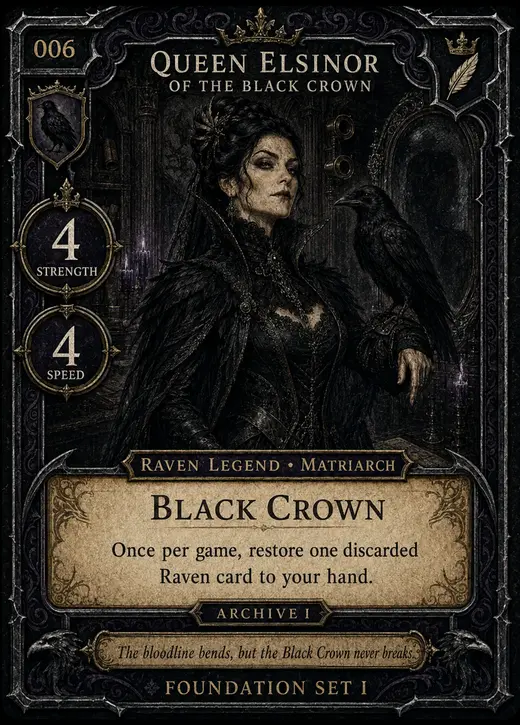
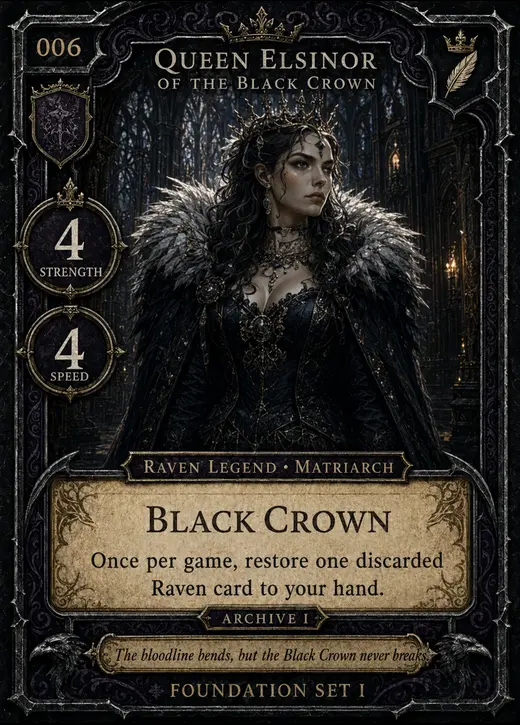
Correct Queen Elsinor and add endgame results

diff --git a/blackfeather/blackfeather.js b/blackfeather/blackfeather.js
@@ -9,15 +9,17 @@ const cards=raw.map(([id,name,role,faction,strength,speed,ability,rules])=>({id,
 const names=["The Iron Gate","The Moon Archive","The Shattered Crown"],S={round:0,max:6,active:false,resolving:false,turn:0,blackwingLane:null,selected:null,hand:[],enemy:[],lanes:names.map(name=>({name,player:[],enemy:[]}))},$=id=>document.getElementById(id);
 function shuffle(a){a=[...a];for(let i=a.length-1;i;i--){let j=Math.floor(Math.random()*(i+1));[a[i],a[j]]=[a[j],a[i]]}return a}
 function hideBlackwing(){document.getElementById("blackwing-reveal")?.remove()}
+function hideOutcome(){document.getElementById("game-outcome")?.remove()}
+function showOutcome(title,detail){hideOutcome();const o=document.createElement("div");o.id="game-outcome";o.className=`game-outcome ${title==="YOU WIN"?"win":title==="YOU LOSE"?"lose":"draw"}`;o.innerHTML=`<span>Match complete</span><strong>${title}</strong><p>${detail}</p><button class="button" type="button">Play again</button>`;o.querySelector("button").onclick=start;document.body.append(o)}
 function showBlackwing(c,lane){hideBlackwing();const r=document.createElement("div");r.id="blackwing-reveal";r.className="blackwing-reveal";r.innerHTML=`<span>Blackwing chooses</span><img src="${c.image}" alt="${c.name}"><strong>${c.name}</strong><small>Committing to ${lane}</small>`;document.body.append(r)}
 const wait=ms=>new Promise(resolve=>setTimeout(resolve,ms));
-function start(){hideBlackwing();const d=shuffle(cards);Object.assign(S,{round:1,active:true,resolving:false,turn:S.turn+1,blackwingLane:null,selected:null,hand:d.slice(0,8),enemy:d.slice(8,16),lanes:names.map(name=>({name,player:[],enemy:[]}))});$("start").textContent="Restart Match";status("Choose a legend, then commit it to a Clash.");render()}
+function start(){hideBlackwing();hideOutcome();const d=shuffle(cards);Object.assign(S,{round:1,active:true,resolving:false,turn:S.turn+1,blackwingLane:null,selected:null,hand:d.slice(0,8),enemy:d.slice(8,16),lanes:names.map(name=>({name,player:[],enemy:[]}))});$("start").textContent="Restart Match";status("Choose a legend, then commit it to a Clash.");render()}
 function power(c,side,i){const l=S.lanes[i],a=l[side],other=l[side==="player"?"enemy":"player"],all=[...a,...other],f=new Set(a.map(x=>x.faction));let p=c.strength,behind=a.reduce((n,x)=>n+x.strength,0)<other.reduce((n,x)=>n+x.strength,0);if(c.id===2&&other.length)p+=2;if([3,6,18,20].includes(c.id))p+=Math.max(0,a.filter(x=>x.faction===c.faction).length-1);if(c.id===4&&other.length&&c.speed>Math.max(...other.map(x=>x.speed)))p++;if(c.id===5&&a[0]===c)p+=2;if(c.id===7&&behind)p+=2;if(c.id===8)p+=S.round-1;if(c.id===10)p+=f.size;if(c.id===11&&c.speed===Math.max(...all.map(x=>x.speed)))p+=2;if(c.id===13&&S.round>=4)p+=2;if(c.id===14)p+=Math.max(0,f.size-1);if(c.id===15&&other.length)p+=Math.min(3,Math.max(...other.map(x=>x.strength))-1);if(c.id===16)p+=all.length-1;if(c.id===17&&other.length===1)p+=2;if(c.id===21)p+=a.length-1;if(c.id===22&&all.length>=3)p+=2;return Math.max(c.id===23?8:0,p)}
 function totals(i){const l=S.lanes[i],sum=side=>({power:l[side].reduce((n,c)=>n+power(c,side,i),0),speed:l[side].reduce((n,c)=>n+c.speed,0)}),p=sum("player"),e=sum("enemy");p.power=Math.max(0,p.power-l.enemy.filter(c=>c.id===1).length);e.power=Math.max(0,e.power-l.player.filter(c=>c.id===1).length);return{player:p,enemy:e}}
 function winner(i){const t=totals(i);return t.player.power!==t.enemy.power?(t.player.power>t.enemy.power?"player":"enemy"):t.player.speed!==t.enemy.speed?(t.player.speed>t.enemy.speed?"player":"enemy"):"tie"}
 function aiLane(){return S.lanes.map((_,i)=>({i,n:totals(i).player.power-totals(i).enemy.power+Math.random()*5})).sort((a,b)=>b.n-a.n)[0].i}
 async function play(i){if(!S.active||S.resolving||!S.selected)return;const token=++S.turn,mine=S.selected,foe=S.enemy[Math.floor(Math.random()*S.enemy.length)],j=aiLane();S.resolving=true;S.selected=null;S.hand=S.hand.filter(c=>c!==mine);S.lanes[i].player.push(mine);status(`${mine.name} enters ${names[i]}. Blackwing is considering its reply…`);render();await wait(850);if(token!==S.turn)return;showBlackwing(foe,names[j]);status(`Blackwing reveals ${foe.name} and chooses ${names[j]}.`);await wait(1450);if(token!==S.turn)return;hideBlackwing();S.enemy=S.enemy.filter(c=>c!==foe);S.lanes[j].enemy.push(foe);S.blackwingLane=j;S.resolving=false;let msg=`${mine.name} enters ${names[i]}. Blackwing commits ${foe.name} to ${names[j]}.`;if(S.round>=S.max){S.active=false;msg+=` ${result()}`}else S.round++;status(msg);render();setTimeout(()=>{if(token===S.turn){S.blackwingLane=null;render()}},900)}
-function result(){const w=S.lanes.map((_,i)=>winner(i)),p=w.filter(x=>x==="player").length,e=w.filter(x=>x==="enemy").length;return p>e?`You claim ${p} Clashes. The field is yours.`:e>p?`Blackwing claims ${e} Clashes.`:"The field ends in deadlock."}
+function result(){const w=S.lanes.map((_,i)=>winner(i)),p=w.filter(x=>x==="player").length,e=w.filter(x=>x==="enemy").length,title=p>e?"YOU WIN":e>p?"YOU LOSE":"DRAW",detail=p>e?`You claim ${p} Clashes to Blackwing's ${e}. The field is yours.`:e>p?`Blackwing claims ${e} Clashes to your ${p}.`:`The field ends ${p}–${e} in deadlock.`;setTimeout(()=>showOutcome(title,detail),950);return `${title} — ${detail}`}
 function status(x){$("status").textContent=x}
 function side(label,list,total,who,i){return`<div class="side"><span>${label} · ${total.power} power · ${total.speed} speed</span><div class="played">${list.length?list.map(c=>`<div class="mini" title="${c.name}"><img src="${c.image}" alt="${c.name}"><b>${power(c,who,i)}</b></div>`).join(""):'<i class="empty">No legends committed</i>'}</div></div>`}
 function render(){$("round").textContent=S.round?`Round ${Math.min(S.round,S.max)} / ${S.max}`:"Round —";$("board").innerHTML="";S.lanes.forEach((l,i)=>{const t=totals(i),x=document.createElement("article");x.className=`lane${S.active&&!S.resolving&&S.selected?" selectable":""}${S.blackwingLane===i?" blackwing-arrival":""}`;x.innerHTML=`<h3>${l.name} · ${winner(i)==="tie"?"Even":winner(i)==="player"?"You lead":"Blackwing leads"}</h3>${side("Blackwing",l.enemy,t.enemy,"enemy",i)}${side("You",l.player,t.player,"player",i)}`;x.onclick=()=>play(i);$("board").append(x)});$("hand").innerHTML="";if(!S.hand.length)$("hand").innerHTML='<i class="empty">Your hand is waiting.</i>';S.hand.forEach(c=>{let b=document.createElement("button");b.className=`hand-card${S.selected===c?" selected":""}`;b.disabled=!S.active||S.resolving;b.innerHTML=`<img src="${c.image}" alt=""><span>${c.name} · ${c.strength}/${c.speed}</span>`;b.onclick=()=>{if(S.resolving)return;S.selected=S.selected===c?null:c;$("help").textContent=S.selected?`${c.name} selected. Choose a Clash.`:"Select a card, then select a Clash.";render()};$("hand").append(b)});let w=S.lanes.map((_,i)=>winner(i));$("you-score").textContent=w.filter(x=>x==="player").length;$("ai-score").textContent=w.filter(x=>x==="enemy").length}

diff --git a/blackfeather/blackfeather.css b/blackfeather/blackfeather.css
@@ -30,6 +30,12 @@
 .blackwing-reveal img{display:block;width:clamp(180px,23vw,250px);aspect-ratio:63/88;object-fit:cover;border:1px solid var(--line)}
 .blackwing-reveal strong{color:var(--pale);text-align:center;text-transform:uppercase;letter-spacing:.08em}
 .blackwing-arrival{animation:blackwingArrival .9s ease-out}
+.game-outcome{position:fixed;z-index:110;inset:50% auto auto 50%;display:grid;justify-items:center;gap:.75rem;width:min(88vw,520px);padding:2rem;background:radial-gradient(circle at 50% 15%,rgba(200,163,90,.16),transparent 50%),rgba(5,6,7,.98);border:1px solid var(--gold);box-shadow:0 0 0 100vmax rgba(0,0,0,.82),0 24px 90px #000;transform:translate(-50%,-50%);text-align:center;animation:outcomeReveal .5s ease-out both}
+.game-outcome>span{color:var(--gold);text-transform:uppercase;letter-spacing:.2em;font-size:.7rem}
+.game-outcome>strong{color:var(--pale);font-size:clamp(2.6rem,9vw,5.5rem);line-height:.9;letter-spacing:.08em}
+.game-outcome.lose>strong{color:#b8b2aa}.game-outcome.draw>strong{color:var(--gold)}
+.game-outcome p{margin:0 0 .4rem;color:var(--muted)}
 @keyframes blackwingReveal{from{opacity:0;transform:translate(-50%,-46%) scale(.9)}to{opacity:1;transform:translate(-50%,-50%) scale(1)}}
 @keyframes blackwingArrival{0%,100%{box-shadow:inset 0 0 0 0 transparent}35%{box-shadow:inset 0 0 0 3px var(--gold),inset 0 0 40px rgba(200,163,90,.28)}}
+@keyframes outcomeReveal{from{opacity:0;transform:translate(-50%,-45%) scale(.88)}to{opacity:1;transform:translate(-50%,-50%) scale(1)}}
 @media(max-width:650px){.hand{min-height:285px}.hand-card{flex-basis:155px}.mini{width:58px}}
